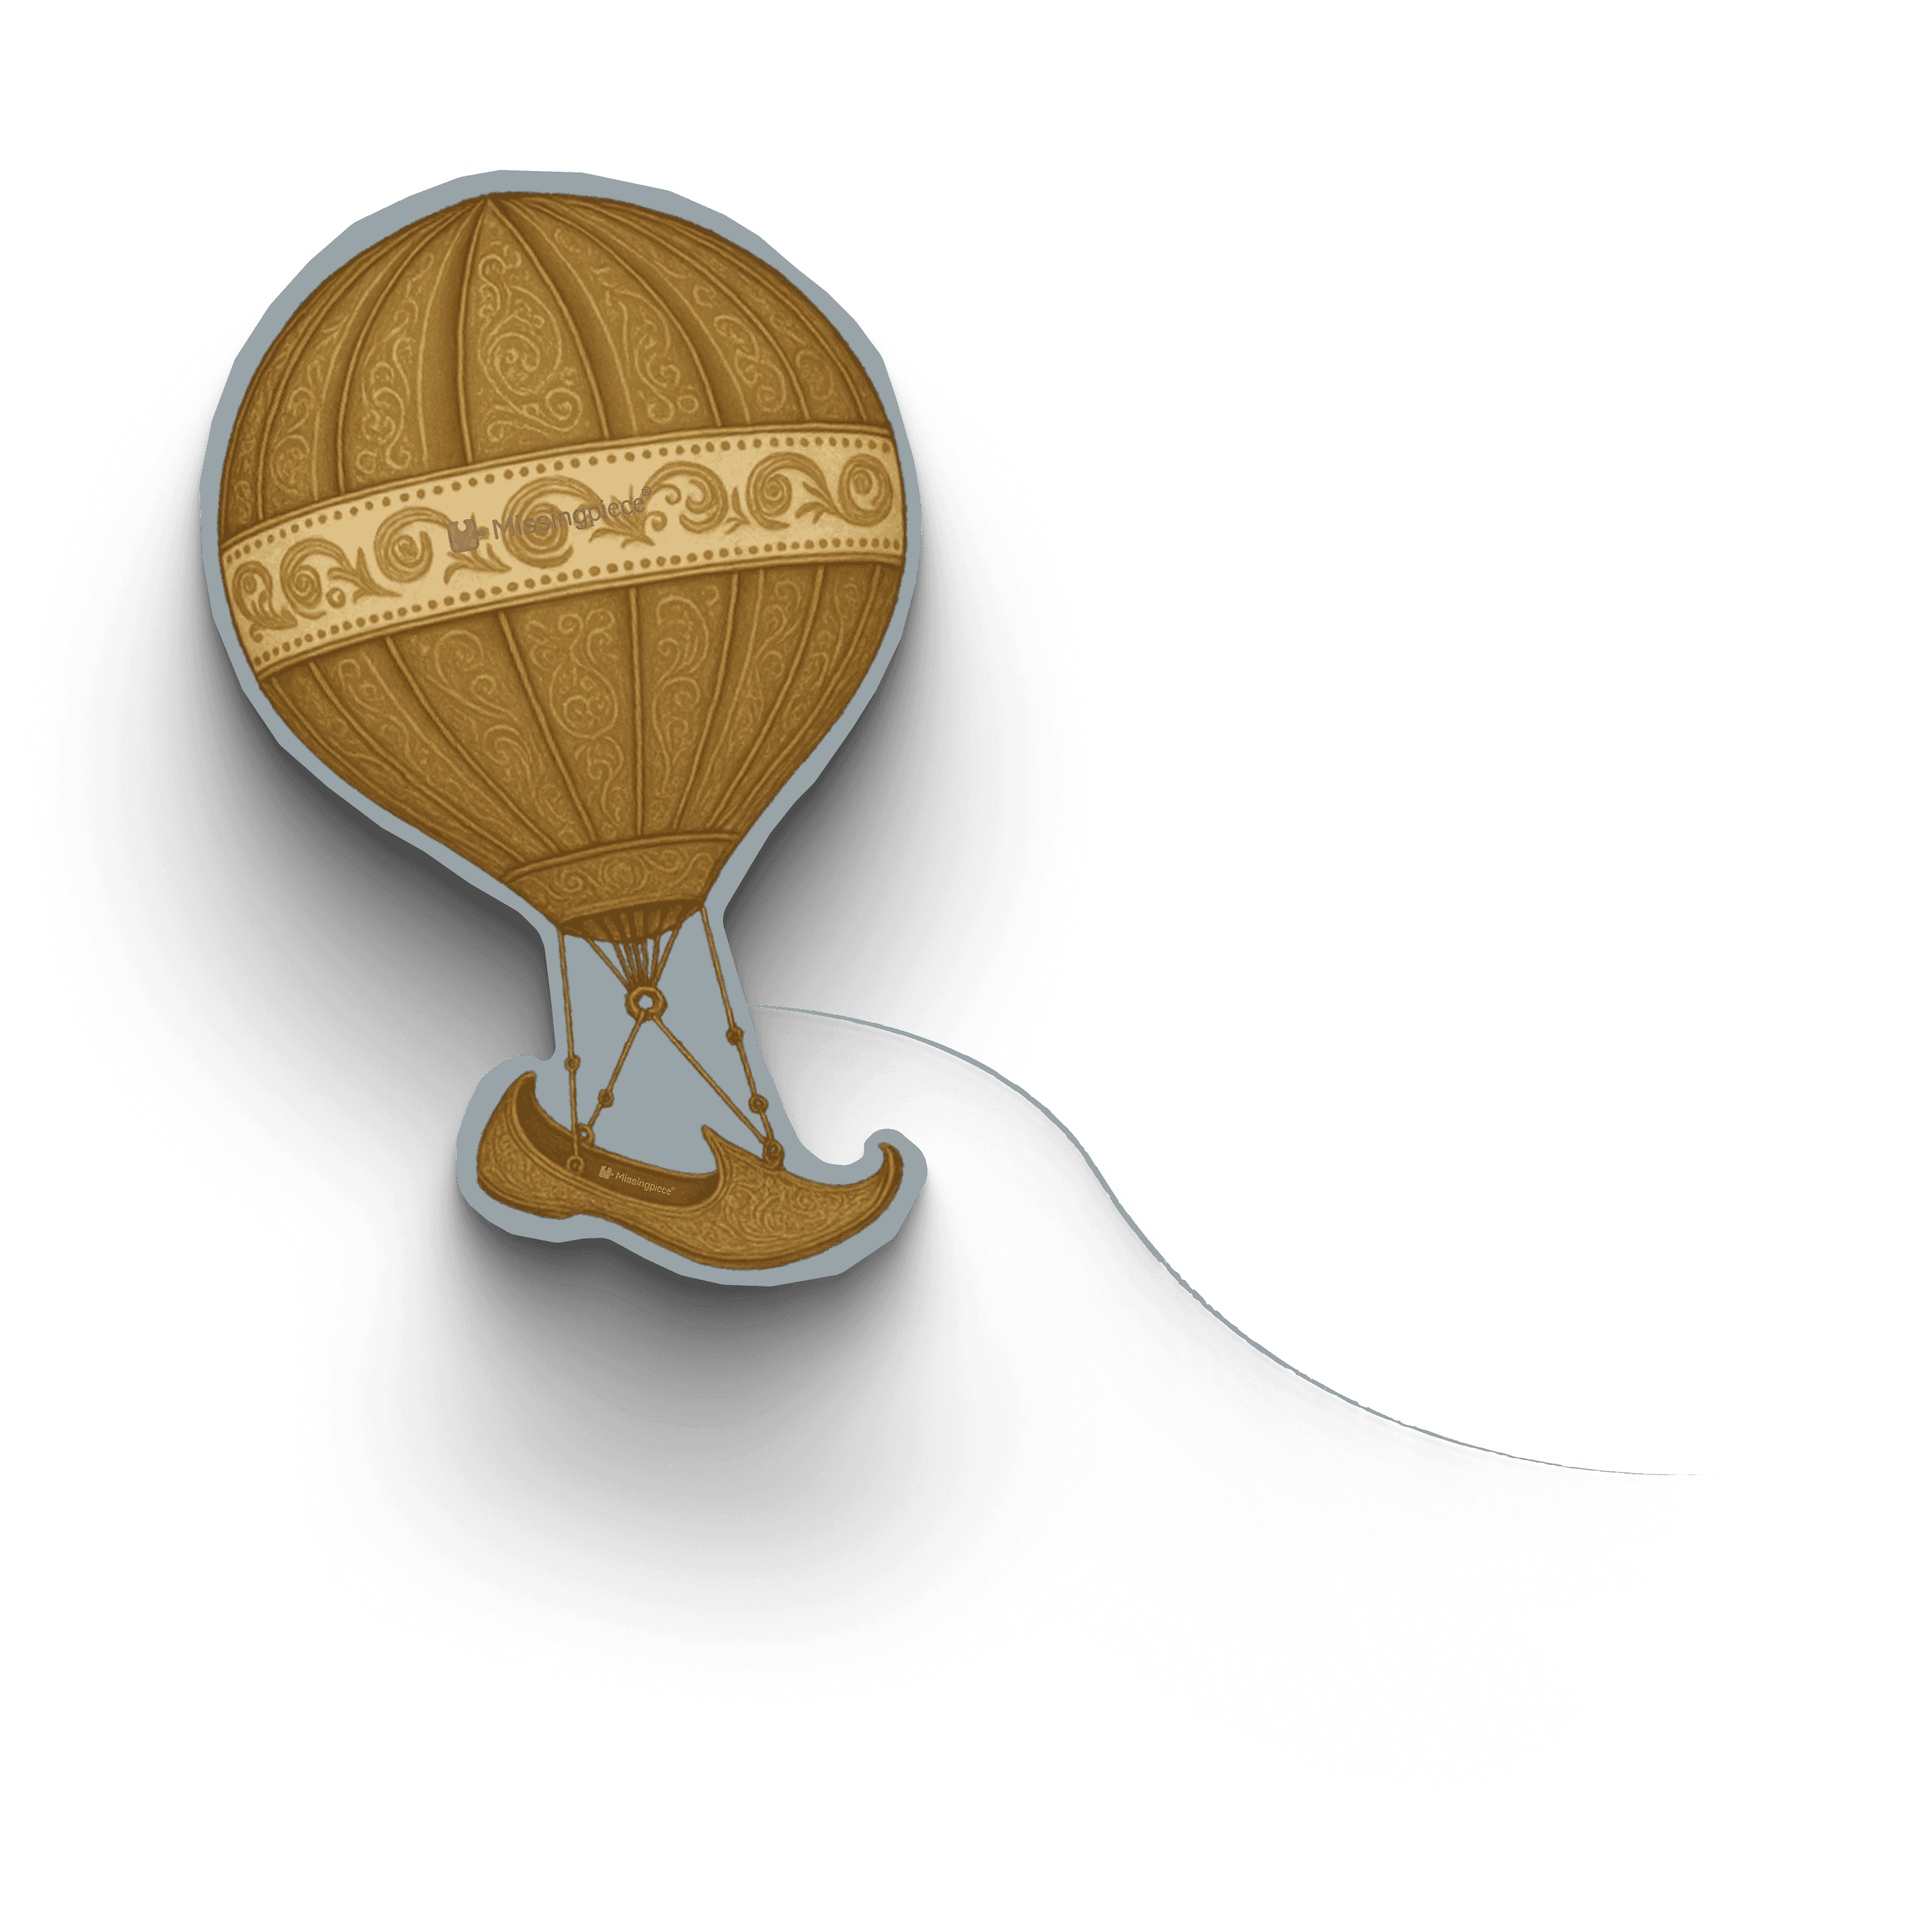
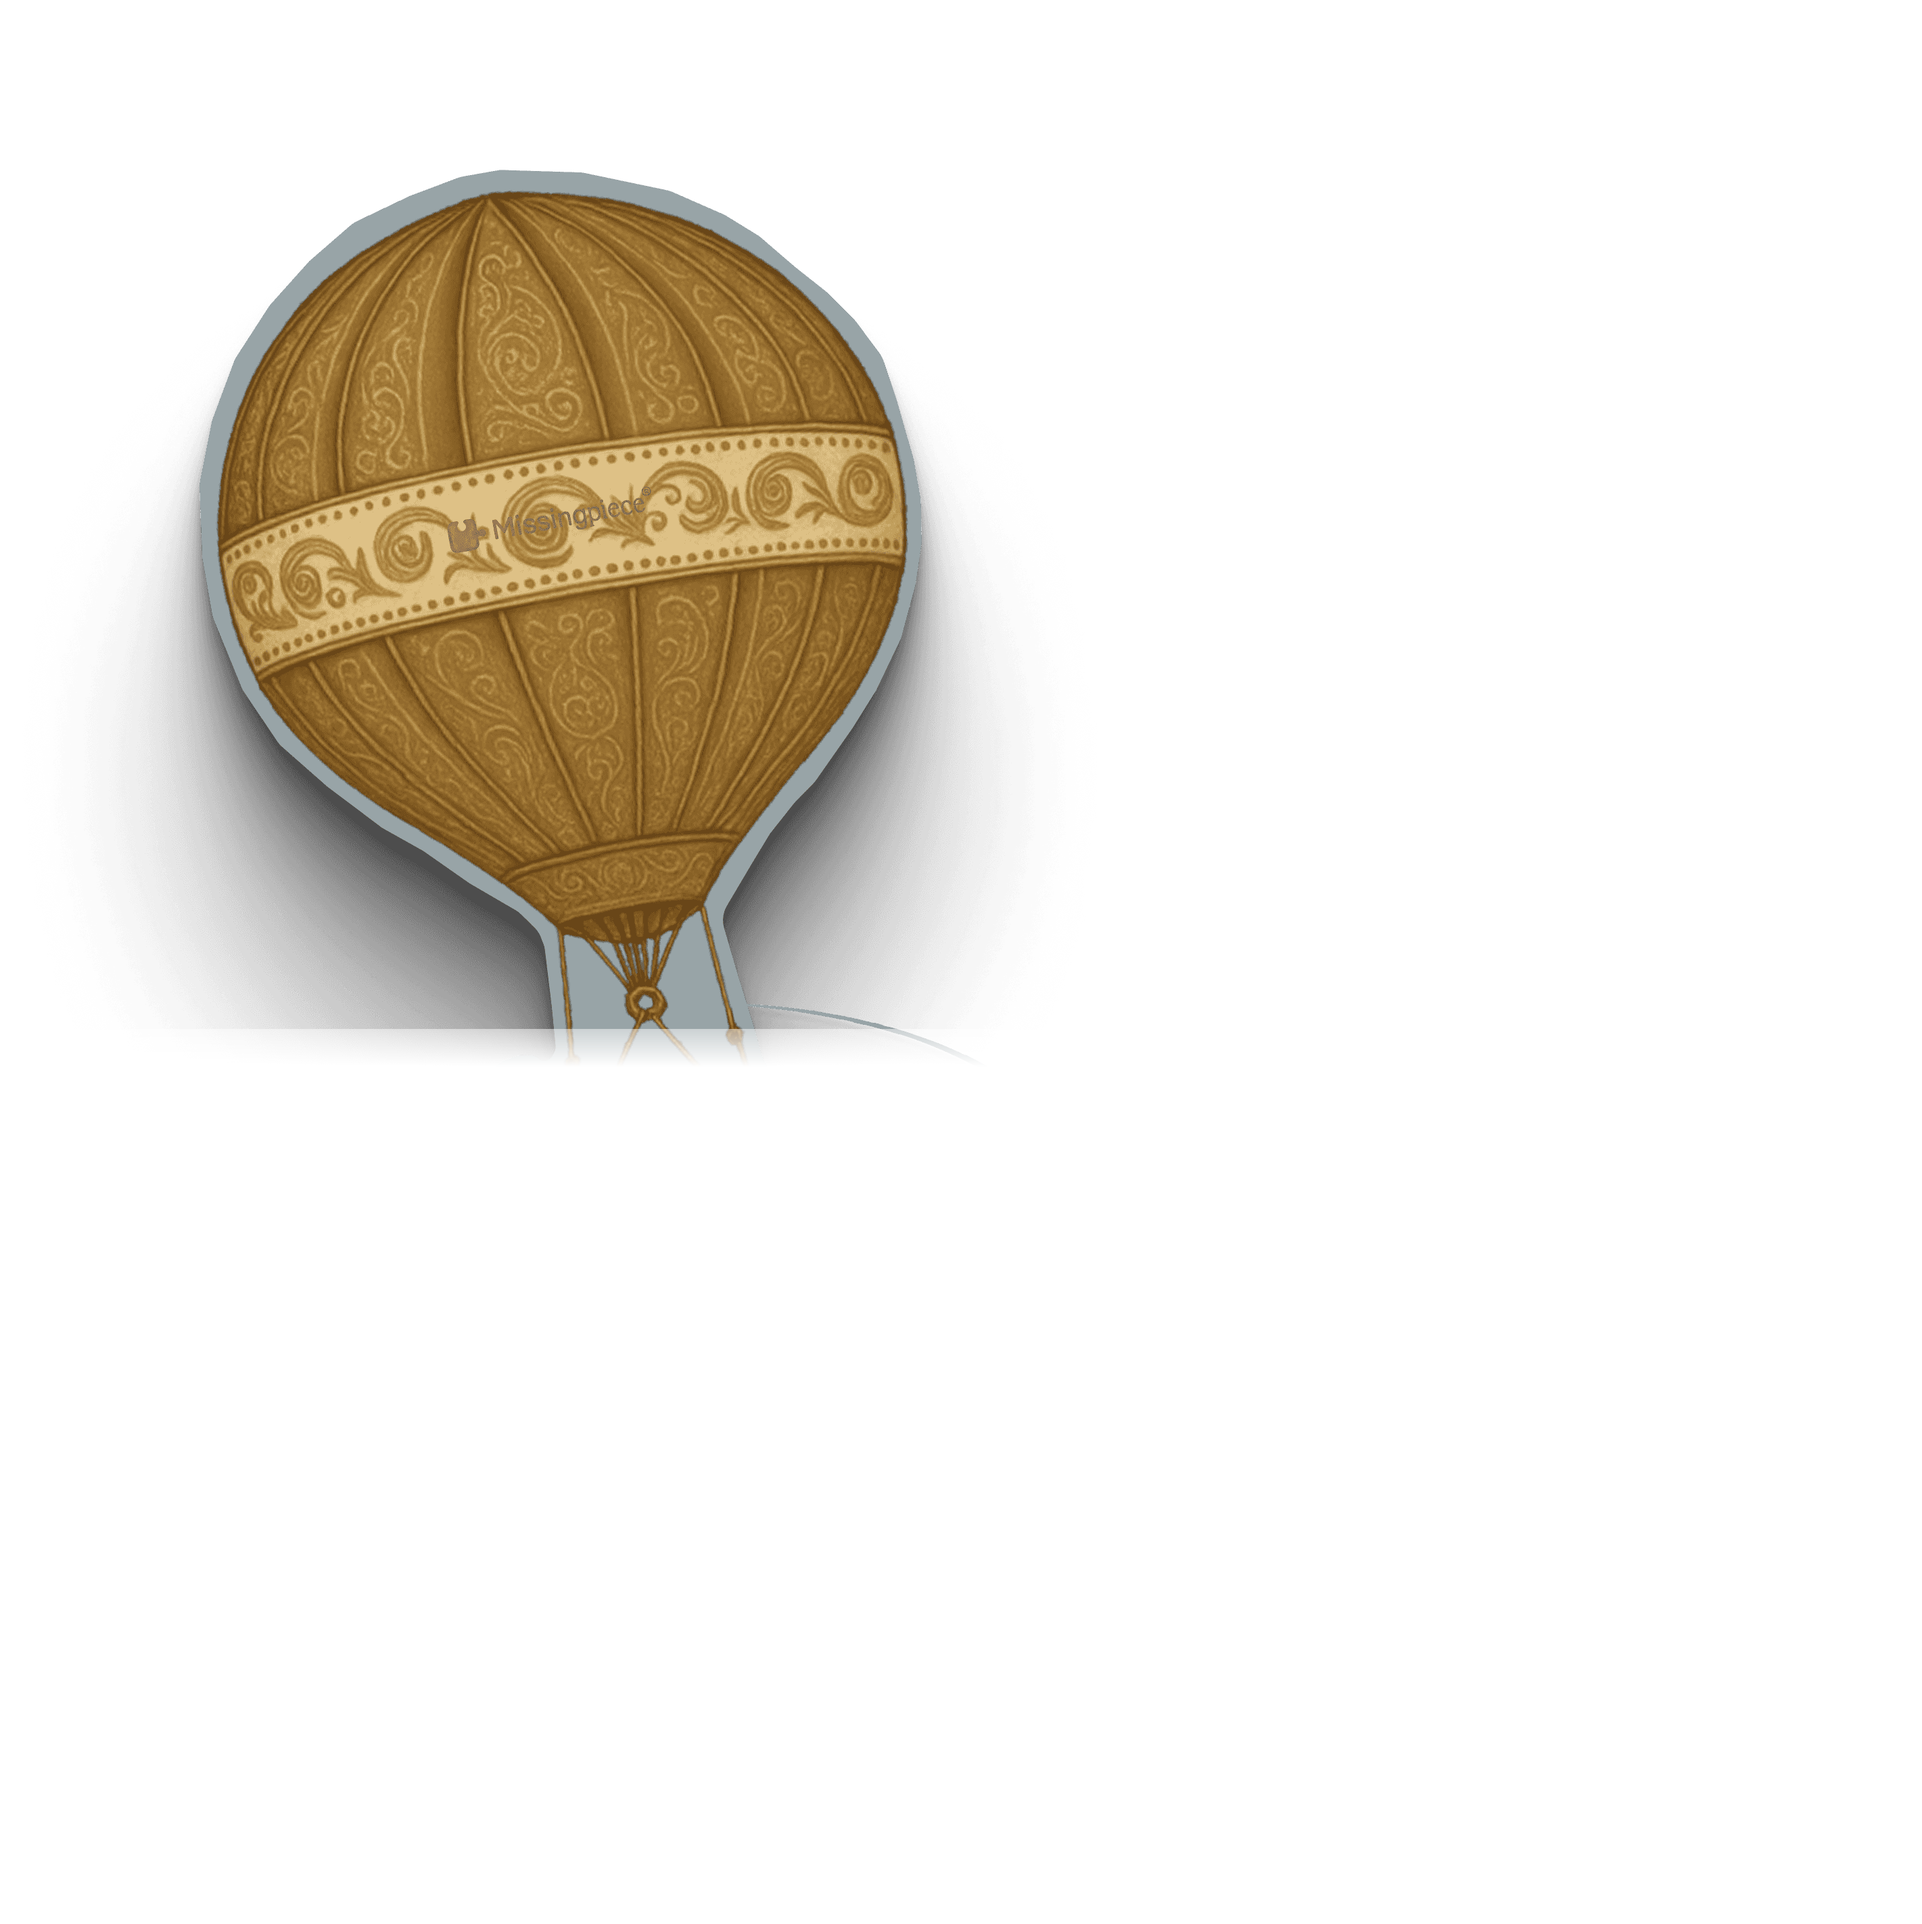
Remove the jutti (shoe) from the balloon decoration; harden map tap layer
- The 'Hot air balloon + jotti' decoration carried a jutti (shoe), which
  reads as inauspicious. Erased the shoe from the shared balloon image
  (LQC5...png), keeping the balloon; same canvas size so layout is unchanged.
- Raise the Google Maps tap layer (overlay z-index 400 + 'See the route'
  link z-index/pointer-events) so no decoration can intercept the tap.

Changed region(s): [[0.1548, 0.5257, 0.4954, 0.8349], [0.4954, 0.5566, 0.6193, 0.6803], [0.6193, 0.6803, 0.6812, 0.7112]]

diff --git a/index.html b/index.html
@@ -755,7 +755,9 @@ a[href*="missingpiecedesign"] { display: none !important; }
 /* remove "On the following events" header (single event) */
 .framer-13yttev { display:none !important; }
 /* spacing between "Son of <parents>" and the event card (header was hidden) */
-.framer-1qb2nt1 { margin-top: 90px !important; }</style>
+.framer-1qb2nt1 { margin-top: 90px !important; }
+/* keep the map link tappable above decorations */
+.framer-1s5joo0, .framer-1s5joo0 a, .framer-2z8xos { position:relative; z-index:120; pointer-events:auto !important; }</style>
 <script id="force-music-autoplay">
 (function(){
   var started = false;
@@ -822,7 +824,7 @@ a[href*="missingpiecedesign"] { display: none !important; }
       if(getComputedStyle(el).position==='static') el.style.position='relative';
       var ov=document.createElement('a');
       ov.href=MAPS; ov.target='_blank'; ov.rel='noopener'; ov.setAttribute('aria-label','Open venue in Google Maps');
-      ov.style.cssText='position:absolute;inset:0;z-index:60;display:block;';
+      ov.style.cssText='position:absolute;inset:0;z-index:400;display:block;';
       el.appendChild(ov);
     });
   }
